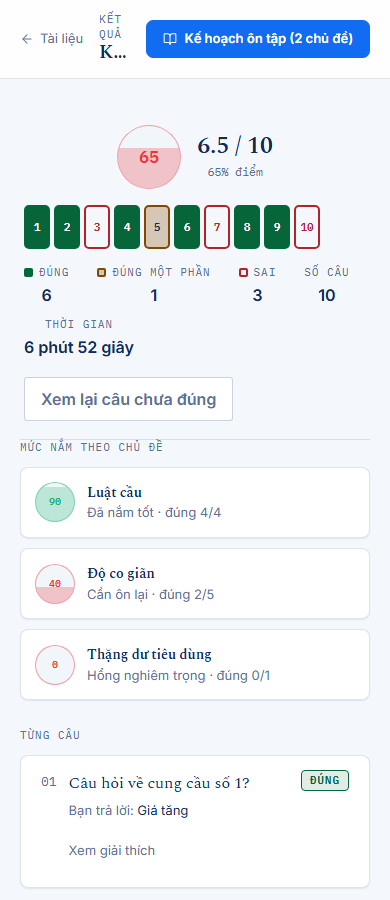
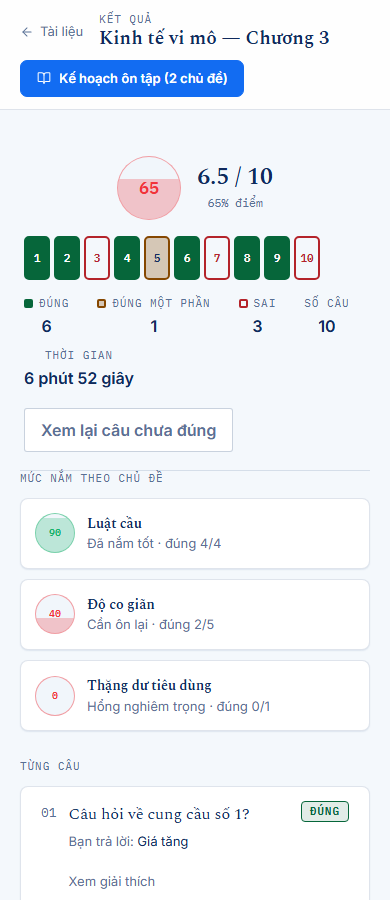
fix(study): page titles wrap actions to a second row instead of shrinking to one letter
At 390px the quiz result title read "K…" beside its action; at 320px it was 0px
wide. StudyShell's header now wraps and the title keeps a readable minimum
width. Screenshots updated.

diff --git a/FE/src/components/study/StudyShell.jsx b/FE/src/components/study/StudyShell.jsx
@@ -32,7 +32,10 @@ export default function StudyShell({
 }) {
   const headerLayout = stackActionsOnMobile
     ? "flex flex-wrap items-center gap-x-4 gap-y-3 md:flex-nowrap md:gap-4"
-    : "flex items-center gap-4";
+    // Wraps instead of squeezing: with several actions at 390px the title used to shrink
+    // to one letter and an ellipsis ("K…"). The title keeps a readable minimum width and
+    // the actions move to a second row when both do not fit.
+    : "flex flex-wrap items-center gap-x-4 gap-y-2";
   const actionsLayout = stackActionsOnMobile
     ? "flex w-full flex-col items-stretch gap-2 md:w-auto md:flex-row md:items-center"
     : "flex items-center gap-2";
@@ -52,7 +55,7 @@ export default function StudyShell({
               <Icon name="ArrowLeft" size={14} /> {backLabel}
             </Link>
           )}
-          <div className="flex-1 min-w-0">
+          <div className="flex-1 min-w-[min(100%,13rem)]">
             <div className="font-mono text-metadata uppercase text-text-muted">
               {eyebrow}
             </div>

diff --git a/FE/e2e-fixture/quiz-review-v6.spec.js b/FE/e2e-fixture/quiz-review-v6.spec.js
@@ -87,6 +87,12 @@ for (const width of [320, 390, 1440]) {
     await expect(page.locator("#cau-7")).toBeFocused();
     await expect(page.locator("#cau-7")).toBeInViewport();
     expect(await noOverflow(page)).toBeLessThanOrEqual(0);
+    // The page title stays readable: at 390px it used to shrink to "K…" beside the actions.
+    const title = page.locator("header h1").first();
+    const { width: titleWidth, clipped } = await title.evaluate((el) => ({
+      width: el.getBoundingClientRect().width, clipped: el.scrollWidth > el.clientWidth + 1 }));
+    expect(titleWidth).toBeGreaterThanOrEqual(Math.min(200, width - 120));
+    if (width >= 1440) expect(clipped).toBe(false);
   });
 }
 

diff --git a/.playbook/known-issues.md b/.playbook/known-issues.md
@@ -8120,3 +8120,22 @@ off-screen button then matches the same role+name as the visible CTA.
 **Prevention:** hiding by transform, width, opacity or pointer-events is visual only; anything
 that stays mounted while hidden needs `inert`. Label tests should match the bare text, not one
 quoting style.
+
+
+### Study page titles shrank to "K…" on phones (2026-11-15)
+
+**Symptoms:** at 390px the quiz result header showed its title as one letter and an
+ellipsis next to "Kế hoạch ôn tập (2 chủ đề)"; at 320px the title was 0px wide.
+
+**Root cause:** `StudyShell`'s default header was one non-wrapping flex row with the title
+at `min-w-0` and the actions `shrink-0`: the actions kept their width and the title absorbed
+the whole shortage.
+
+**Fix:** the default header wraps (`flex-wrap`) and the title keeps
+`min-w-[min(100%,13rem)]`, so the actions move to a second row instead.
+
+**Regression:** `e2e-fixture/quiz-review-v6.spec.js` per-width test asserts a readable title
+width (red before: 0px at 320, "K…" at 390).
+
+**Prevention:** in a row with fixed-width actions give the text a minimum width and let the
+row wrap; `min-w-0` alone lets it collapse to nothing.
